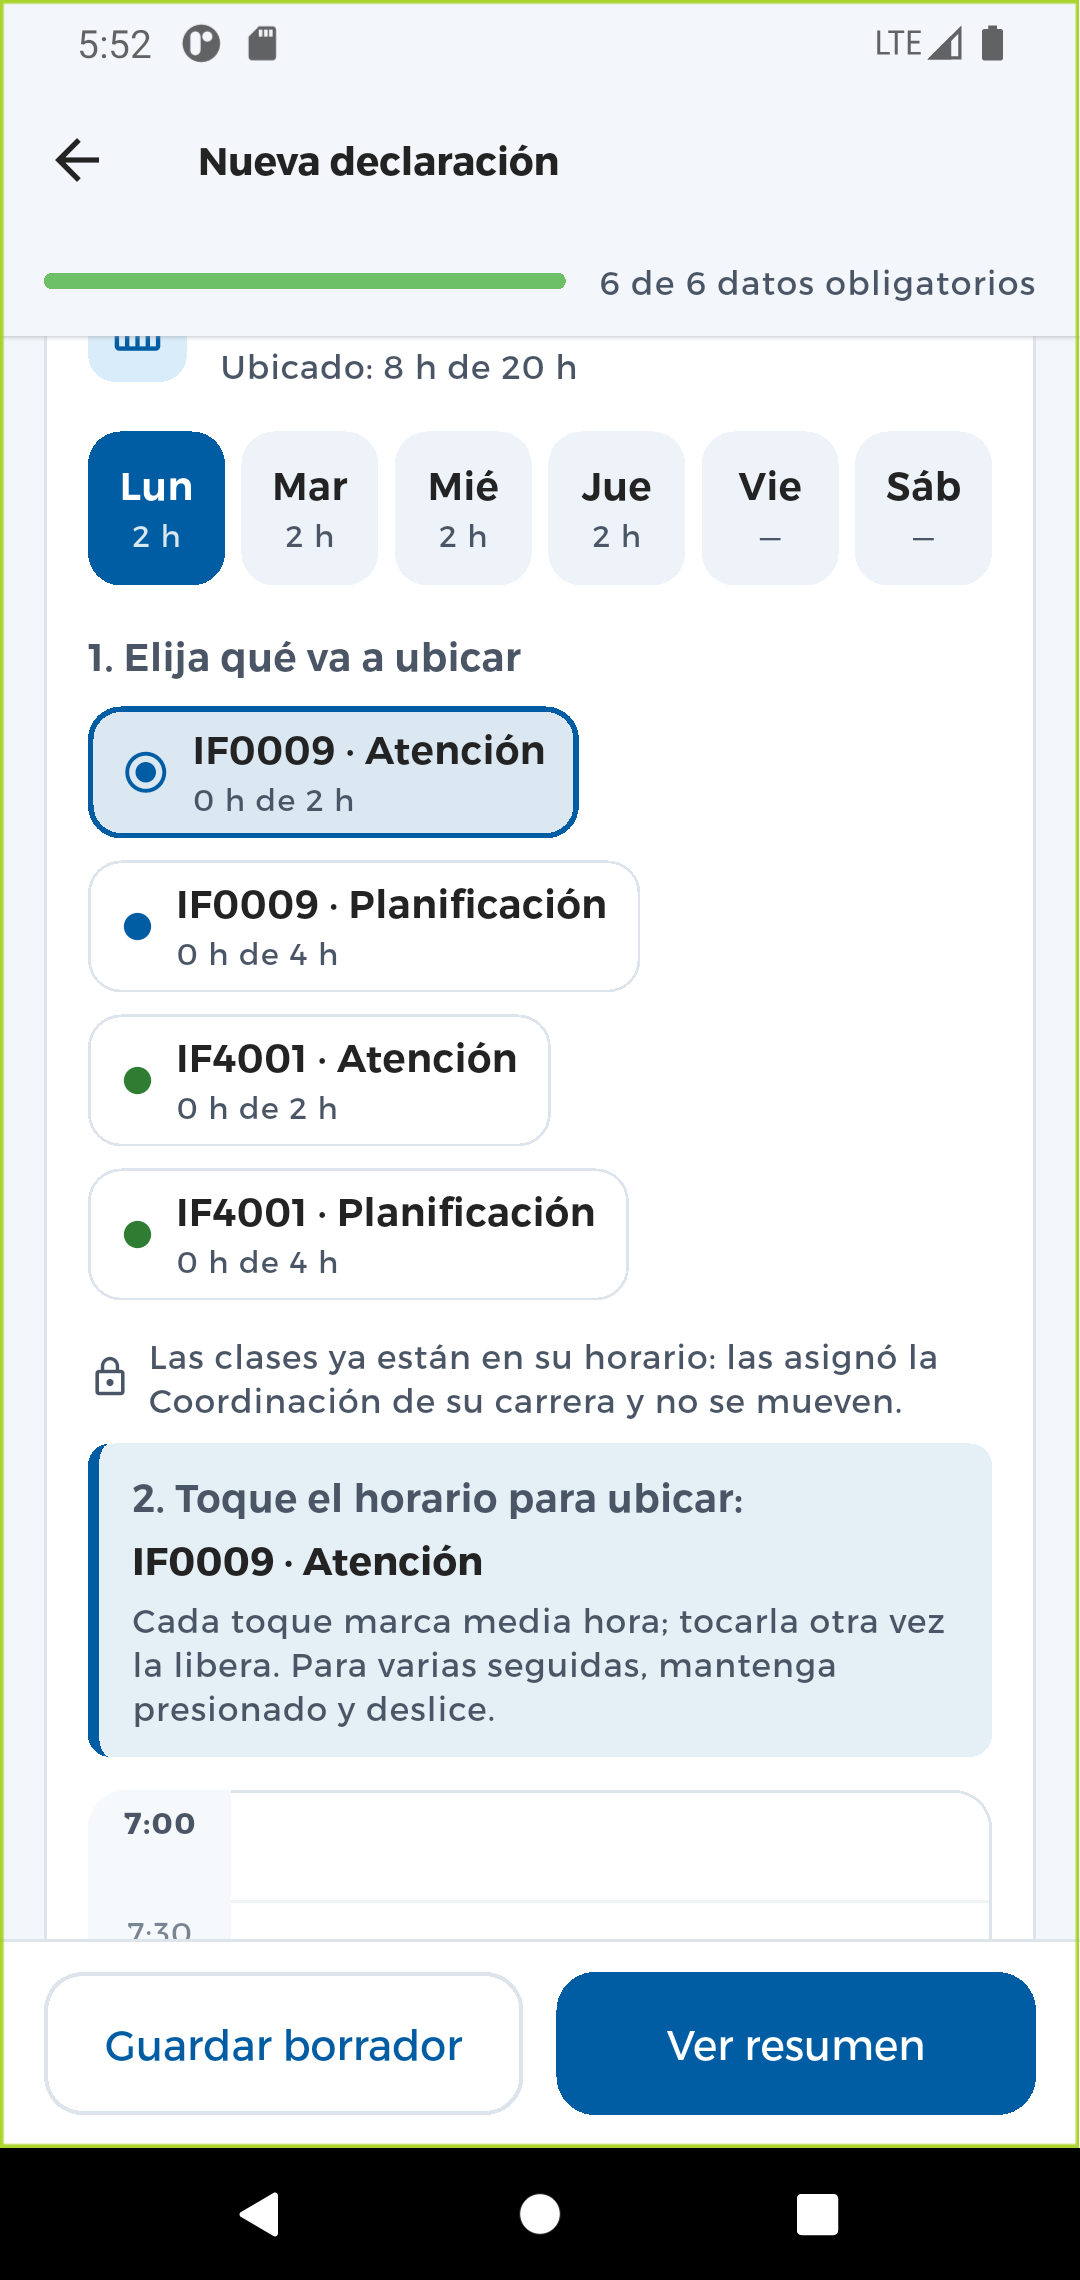
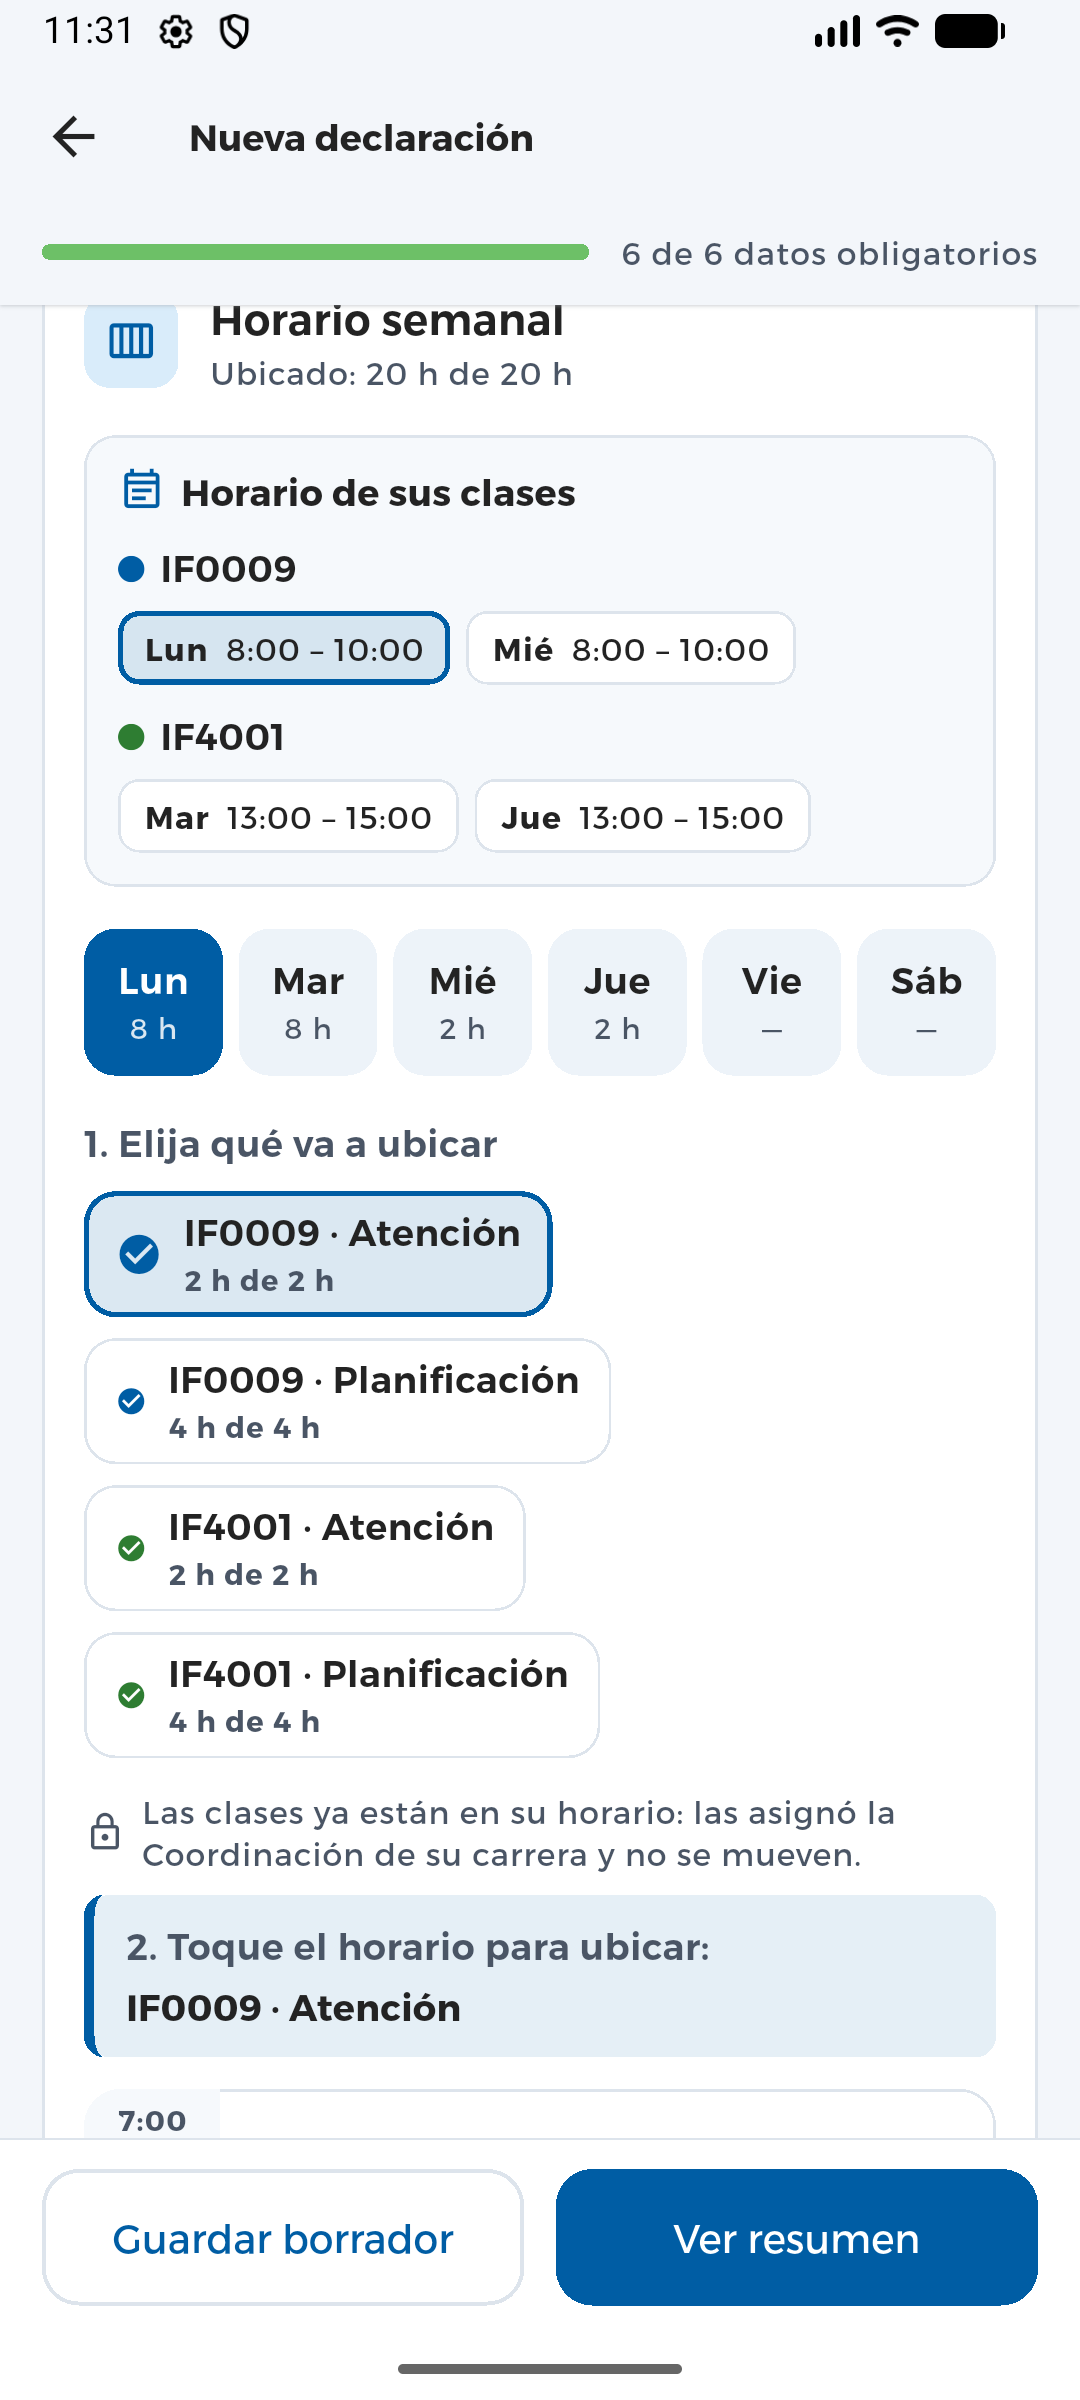
docs: guide with the lesson card and the official-form oath
Screenshots 04-horario, 09-firma and 10-pdf retaken on the Android
emulator with the fictitious data: the "Horario de sus clases" card above
the days, and the oath of the official form on the signing screen and
the PDF. The schedule steps explain the new card. The guide PDF still
needs Word to be regenerated.

diff --git a/entregables/07-guia-uso/guia-de-uso.md b/entregables/07-guia-uso/guia-de-uso.md
@@ -100,13 +100,14 @@ Abajo están las cuatro secciones: **Inicio**, **Declaraciones**, **Zonaje** e *
 Las **clases ya están en su horario**, con un candado: las asignó la Coordinación y no se mueven. Usted ubica
 la atención a estudiantes, la planificación, los proyectos y las otras instituciones.
 
-1. Arriba, en **Horario de sus clases**, vea los días y horas de cada curso; toque uno para abrir ese día.
-   Elija el día (**Lun** a **Sáb**).
-2. En **Qué va a ubicar**, toque la tarea, por ejemplo *IF0009 · Atención*. Debajo dice cuánto lleva: *0 h de
-   2 h*.
-3. Toque una media hora libre para marcarla. Tóquela otra vez para liberarla.
-4. Para marcar varias seguidas: **mantenga presionado y deslice** hacia abajo.
-5. Si un día se repite, use **Copiar a otros días**.
+1. Arriba, en **Horario de sus clases**, vea los días y horas de las clases de cada curso. Úselo para ubicar
+   la atención y la planificación alrededor de ellas. Si toca un horario, se abre ese día.
+2. Elija el día (**Lun** a **Sáb**).
+3. En **Qué va a ubicar**, toque la tarea, por ejemplo *IF0009 · Atención*. Debajo dice cuánto lleva, por
+   ejemplo *0 h de 2 h*; cuando están todas, aparece un ✓.
+4. Toque una media hora libre para marcarla. Tóquela otra vez para liberarla.
+5. Para marcar varias seguidas: **mantenga presionado y deslice** hacia abajo.
+6. Si un día se repite, use **Copiar a otros días**.
 
 Reglas que la app cuida por usted:
 
